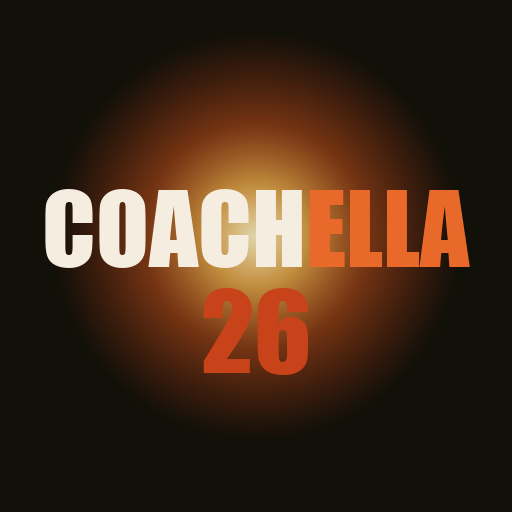
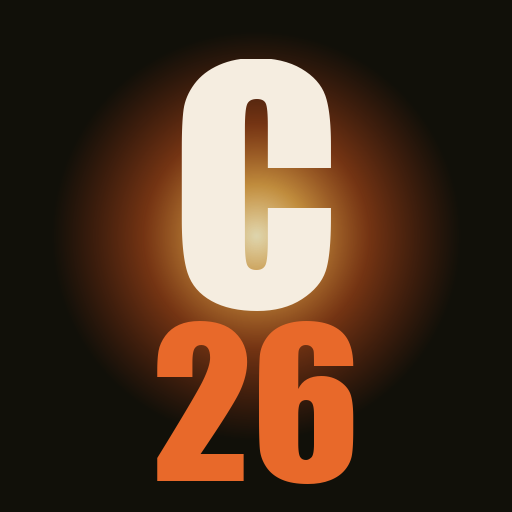
updates

Changed region(s): [[0.0625, 0.0938, 0.9375, 0.9688]]

diff --git a/index.html b/index.html
@@ -128,7 +128,7 @@
     text-transform: uppercase;
   }
 
-  /* DAY TABS */
+/* DAY TABS */
   .day-tabs {
     display: flex;
     border-bottom: 2px solid var(--dusk);
@@ -1168,7 +1168,7 @@
 
 <header>
   <div id="sun-orb" aria-hidden="true"></div>
-  <div class="header-label">YouTube Livestream — Weekend 1</div>
+  <div class="header-label">YouTube Livestream — Weekend 1 · Live streams begin 4pm PST daily</div>
   <h1>COACH<span>ELLA</span><br>2026</h1>
   <div class="header-meta">
     <div class="header-meta-row1">
@@ -1193,6 +1193,7 @@
       </select>
     </div>
   </div>
+
 </header>
 
 <div class="day-tabs">
@@ -1418,9 +1419,9 @@
     <div class="search-day-label">Saturday · Apr 11</div>
     <div class="day-header">
       <div class="day-title">Saturday, April 11</div>
-      <div class="day-headliners">Headliner: Justin Bieber · Also: Jack White, The Strokes</div>
+      <div class="day-headliners">Headliner: Justin Bieber · Also: Worship, Armin Van Buuren, David Guetta</div>
     </div>
-    <div class="stream-note" style="margin-bottom:1rem;">Stream begins 4:00 PM PDT · Jack White's 3pm set delayed to 4pm on stream</div>
+    <div class="stream-note" style="margin-bottom:1rem;">Stream begins 4:00 PM PDT</div>
     <div class="stages-grid">
 
       <div class="stage-block">
@@ -1585,7 +1586,7 @@
     <div class="search-day-label">Sunday · Apr 12</div>
     <div class="day-header">
       <div class="day-title">Sunday, April 12</div>
-      <div class="day-headliners">Headliner: KAROL G · Also: Iggy Pop, FKA twigs, BIGBANG, Laufey</div>
+      <div class="day-headliners">Headliner: KAROL G · Also: FKA twigs, BIGBANG, Kaskade, The Rapture</div>
     </div>
     <div class="stream-note" style="margin-bottom:1rem;">Stream begins 4:00 PM PDT</div>
     <div class="stages-grid">
@@ -1928,24 +1929,24 @@
     ['sat',0,'Justin Bieber',        23,25,  0,55, true],
     // SATURDAY — Outdoor Theatre
     ['sat',1,'Blondshell',           14,40, 15,25, false],
-    ['sat',1,'Los Hermanos Flores',  15,55, 16,45, false],
-    ['sat',1,'Alex G',               17,10, 18, 0, false],
-    ['sat',1,'SOMBR',                19, 5, 19,55, false],
+    ['sat',1,'Los Hermanos Flores',  16, 0, 16,45, false],
+    ['sat',1,'Alex G',               17, 0, 17,50, false],
+    ['sat',1,'SOMBR',                19, 0, 19,50, false],
     ['sat',1,'Labrinth',             20,30, 21,25, false],
     ['sat',1,'David Byrne',          22,20, 23,20, false],
     // SATURDAY — Sahara
     ['sat',2,'Seek-One',             14, 0, 14,45, false],
     ['sat',2,'TEED',                 14,50, 15,50, false],
-    ['sat',2,'ZULAN',                16, 0, 16,50, false],
-    ['sat',2,'Hamdi',                17, 0, 17,55, false],
-    ['sat',2,'¥USUK€ ¥UK1MATSU',    18,15, 19,10, false],
+    ['sat',2,'ZULAN',                16, 0, 16,45, false],
+    ['sat',2,'Hamdi',                17, 0, 17,50, false],
+    ['sat',2,'¥USUK€ ¥UK1MATSU',    18,10, 19, 0, false],
     ['sat',2,'Nine Inch Noize',      20, 0, 20,45, false],
-    ['sat',2,'REZZ',                 21,10, 22, 5, false],
+    ['sat',2,'REZZ',                 21,10, 22, 0, false],
     ['sat',2,'Adriatique',           22,30, 23,25, false],
     ['sat',2,'Worship',              23,55,  0,55, true],
     // SATURDAY — Mojave
-    ['sat',3,'Jack White',           15, 0, 15,45, false],
-    ['sat',3,'Fujii Kaze',           16,30, 17,20, false],
+    ['sat',3,'Jack White',           16, 0, 16,45, false],
+    ['sat',3,'Fujii Kaze',           16,45, 17,30, false],
     ['sat',3,'Royel Otis',           17,50, 18,35, false],
     ['sat',3,'Taemin',               19,30, 20,20, false],
     ['sat',3,'PinkPantheress',       20,55, 21,45, false],
@@ -2010,7 +2011,7 @@
     ['sun',1,'BIGBANG',              22,30, 23,30, false],
     // SUNDAY — Sahara
     ['sun',2,'LOBOMAN',              14,30, 15,30, false],
-    ['sun',2,'Girl Math (VNSSA x NALA)',15,35,16,35,false],
+    ['sun',2,'Girl Math (VNSSA x NALA)',16, 0,16,35,false],
     ['sun',2,'BUNT.',                16,45, 17,45, false],
     ['sun',2,'Duke Dumont',          18,10, 19,10, false],
     ['sun',2,'Mochakk',              19,25, 20,25, false],

diff --git a/generate_icons.py b/generate_icons.py
@@ -65,30 +65,30 @@ def make_icon(size):
 
     padding = size * 0.08
 
-    # Auto-fit "COACHELLA" to icon width
-    fs = int(size * 0.30)
+    # Auto-fit "C" to ~60% of icon width
+    fs = int(size * 0.60)
     while fs > 8:
         f = load_font(fs)
-        bb = draw.textbbox((0, 0), 'COACHELLA', font=f)
+        bb = draw.textbbox((0, 0), 'C', font=f)
         if (bb[2] - bb[0]) <= size - padding * 2:
             break
         fs -= 1
     font_top = load_font(fs)
 
-    # "26" slightly larger than COACHELLA height
-    font_bot = load_font(int(fs * 1.1))
+    # "26" at similar size to "C"
+    font_bot = load_font(int(fs * 0.65))
 
     # Measure both lines
-    bb_top = draw.textbbox((0, 0), 'COACHELLA', font=font_top)
-    bb_bot = draw.textbbox((0, 0), '26',        font=font_bot)
+    bb_top = draw.textbbox((0, 0), 'C',  font=font_top)
+    bb_bot = draw.textbbox((0, 0), '26', font=font_bot)
     top_w, top_h = bb_top[2] - bb_top[0], bb_top[3] - bb_top[1]
     bot_w, bot_h = bb_bot[2] - bb_bot[0], bb_bot[3] - bb_bot[1]
 
-    gap = int(size * 0.04)
+    gap = int(size * 0.02)
     total_h = top_h + gap + bot_h
 
     # Center the block vertically with a slight downward nudge
-    block_top = (size - total_h) / 2 + size * 0.05
+    block_top = (size - total_h) / 2 + size * 0.03
 
     top_x = (size - top_w) / 2 - bb_top[0]
     top_y = block_top - bb_top[1]
@@ -96,14 +96,11 @@ def make_icon(size):
     bot_x = (size - bot_w) / 2 - bb_bot[0]
     bot_y = block_top + top_h + gap - bb_bot[1]
 
-    # "COACH" in sand, "ELLA" in burnt orange — mirrors the page header
-    coach_bb = draw.textbbox((0, 0), 'COACH', font=font_top)
-    coach_w  = coach_bb[2] - coach_bb[0]
-    draw.text((top_x,            top_y), 'COACH', font=font_top, fill=(245, 237, 224))  # sand
-    draw.text((top_x + coach_w,  top_y), 'ELLA',  font=font_top, fill=(232, 105, 42))   # #e8692a burnt
+    # "C" in sand
+    draw.text((top_x, top_y), 'C', font=font_top, fill=(245, 237, 224))  # sand
 
-    # "26" in rust
-    draw.text((bot_x, bot_y), '26', font=font_bot, fill=(200, 67, 26))  # #c8431a
+    # "26" in burnt orange
+    draw.text((bot_x, bot_y), '26', font=font_bot, fill=(232, 105, 42))  # #e8692a burnt
 
     return img
 